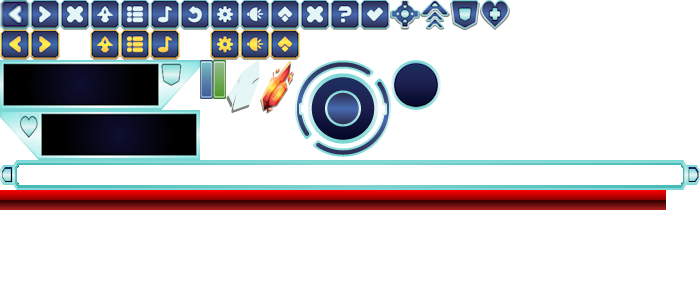
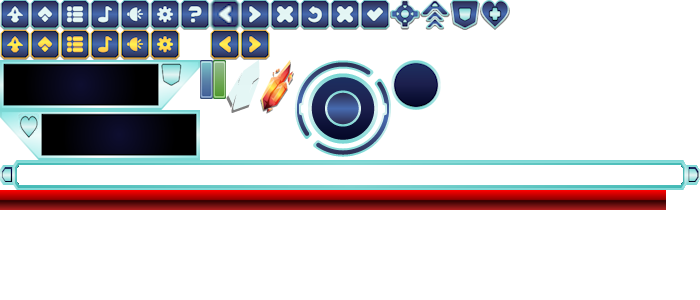
Added buttons and fixed pause key

Changed region(s): [[0.0, 0.0, 0.51, 0.21]]

diff --git a/src/ControlPanel.java b/src/ControlPanel.java
@@ -7,22 +7,31 @@
 import java.awt.Dimension;
 import java.awt.Graphics;
 import java.awt.Point;
+import java.awt.event.ItemEvent;
+import java.awt.event.ItemListener;
 import java.awt.event.KeyEvent;
 import java.awt.event.KeyListener;
 import java.awt.event.MouseEvent;
 import java.awt.event.MouseListener;
 import java.awt.event.MouseMotionListener;
 import java.awt.image.BufferedImage;
+import java.awt.Image;
 import java.io.IOException;
 
+import javax.swing.Icon;
+import javax.swing.ImageIcon;
 import javax.swing.JPanel;
+import javax.swing.JToggleButton;
 
 public class ControlPanel extends JPanel{
 
     private final int WIDTH = 800;
     private final int HEIGHT = 200;
 
+    private GamePanel gPanel;
+    private Boolean isPaused;
     private InputListener listener;
+    private JToggleButton[] menuButtons;
     private BufferedImage console;
     private BufferedImage UI_SS;
     private SpriteSheet UI;
@@ -35,19 +44,32 @@ public class ControlPanel extends JPanel{
     private BufferedImage shieldBar;
     private BufferedImage healthDot;
     private BufferedImage shieldDot;
+    private ImageIcon[] icons;
 
-    public ControlPanel(InputHolder input) {
+
+    public ControlPanel(InputHolder input, GamePanel gp) {
         //Initialize
-        listener = new InputListener(input);
+        this.gPanel = gp;
+        this.listener = new InputListener(input);
+        this.icons = new ImageIcon[13];
+        this.isPaused = false;
 
         //Panel settings
         this.setPreferredSize(new Dimension(WIDTH, HEIGHT));
+        this.setLayout(null);
         this.addKeyListener(listener);
         this.addMouseListener(listener);
         this.addMouseMotionListener(listener);
         this.setFocusable(true);
         this.requestFocus();
 
+        //UI
+        menuButtons = new JToggleButton[6];
+        for(int i = 0; i < menuButtons.length; i++) {
+            menuButtons[i] = new JToggleButton();
+            menuButtons[i].setBounds(575+(35*i), 128, 30, 30);
+            menuButtons[i].addItemListener(listener);
+        }
     }
 
     public void init() {
@@ -78,6 +100,32 @@ public class ControlPanel extends JPanel{
         UI.setPointer(13, 39, 200, 60);
         healthDot = UI.getSprite(2, 1);
         shieldDot = UI.getSprite(1, 1);
+
+        //Load icons
+        UI.setPointer(30, 30, 0, 0);
+        for(int i = 0; i < icons.length; i++) {
+            if (i <= 6) {
+                icons[i] = new ImageIcon((Image)UI.getSprite(i+1, 1));
+            }
+            else {
+                icons[i] = new ImageIcon((Image)UI.getSprite(i-6, 2));
+            }
+        }
+
+        //Set icons to buttons and display
+        for(int j = 0; j < menuButtons.length; j++) {
+            //The last button doesn't have a 'selected' icon
+            if(j == menuButtons.length - 1) {
+                menuButtons[j].setIcon(icons[j+1]);
+                this.add(menuButtons[j]);
+                break;
+            }
+
+            //Set icons and 'selected' icons for the first 5 buttons
+            menuButtons[j].setIcon(icons[j]);
+            this.add(menuButtons[j]);
+            menuButtons[j].setSelectedIcon(icons[j+7]);
+        }
     }
 
     public void tick() {
@@ -104,7 +152,7 @@ public class ControlPanel extends JPanel{
     }
     
 
-    private class InputListener implements KeyListener, MouseListener, MouseMotionListener {
+    private class InputListener implements KeyListener, MouseListener, MouseMotionListener, ItemListener {
 
         private InputHolder input;
         private Point clickPosition;
@@ -135,7 +183,14 @@ public class ControlPanel extends JPanel{
                 case KeyEvent.VK_BACK_SPACE:
                 case KeyEvent.VK_ESCAPE:
                 case KeyEvent.VK_E:
-                    input.setInput('e');
+                    if (isPaused) {
+                        isPaused = false;
+                        gPanel.unpause();
+                    }
+                    else {
+                        isPaused = true;
+                        gPanel.pause();
+                    }
                     break;
             }
         }
@@ -179,6 +234,28 @@ public class ControlPanel extends JPanel{
             input.clear();
         }
 
+        @Override
+        public void itemStateChanged(ItemEvent e) {
+            if (menuButtons[0].isSelected()) {
+                //TODO: ship stats
+            }
+            if (menuButtons[1].isSelected()) {
+                //TODO: upgrade menu
+            }
+            if (menuButtons[2].isSelected()) {
+                //TODO: menu
+            }
+            if (menuButtons[3].isSelected()) {
+                //TODO: music off
+            }
+            if (menuButtons[4].isSelected()) {
+                //TODO: sounds off
+            }
+            if (menuButtons[5].isSelected()) {
+                //TODO: help
+            }
+        }
+
         //Not implemented
         @Override
         public void mouseClicked(MouseEvent e) {}
@@ -194,7 +271,5 @@ public class ControlPanel extends JPanel{
 
         @Override
         public void mouseExited(MouseEvent e) {}
-
-        
     }
 }

diff --git a/src/GamePanel.java b/src/GamePanel.java
@@ -21,7 +21,6 @@ public class GamePanel extends JPanel{
     private final int HEIGHT = 450;
 
     private boolean running = false;
-    private ControlPanel cPanel;
     private Timer timer;
     private InputHolder input;
 
@@ -32,13 +31,12 @@ public class GamePanel extends JPanel{
 
     private ObjectManager manager;
 
-    public GamePanel(InputHolder input, ControlPanel panel) {
+    public GamePanel(InputHolder input) {
         //Initialize
         this.input = input;
         running = false;
-        this.cPanel = panel;
         timer = new Timer(DELAY, new ClockListener());
-        manager = new ObjectManager(this, cPanel);
+        manager = new ObjectManager(this);
 
         //Panel settings
         this.setPreferredSize(new Dimension(WIDTH, HEIGHT));
@@ -79,7 +77,6 @@ public class GamePanel extends JPanel{
 
     public void tick() {
         manager.tick();
-        cPanel.tick();
 
         repaint();
     }
@@ -98,7 +95,7 @@ public class GamePanel extends JPanel{
     }
 
     public void unpause() {
-        
+        timer.start();
     }
 
     public ObjectManager getObjectManager() {

diff --git a/src/ObjectManager.java b/src/ObjectManager.java
@@ -16,7 +16,6 @@ public class ObjectManager {
     private ArrayList<Mover> delHostile;
     private ArrayList<Mover> delFriendly;
     private GamePanel gp;
-    private ControlPanel cp;
     private Random rand;
 
     private SpriteSheet smallRockSS;
@@ -29,7 +28,7 @@ public class ObjectManager {
 
     private int tickCounter, spawnRate;
 
-    public ObjectManager(GamePanel gp, ControlPanel cp) {
+    public ObjectManager(GamePanel gp) {
         friendly = new ArrayList<Mover>();
         hostile = new ArrayList<Mover>();
         delHostile = new ArrayList<Mover>();
@@ -39,7 +38,6 @@ public class ObjectManager {
         spawnRate = 20;
 
         this.gp = gp;
-        this.cp = cp;
     }
 
     public void init() {
@@ -83,7 +81,7 @@ public class ObjectManager {
         tickCounter++;
 
         if(tickCounter >= spawnRate) {
-            spawnRock(1, 0);
+            spawnRock(4, 0);
             tickCounter = 0;
         }
 

diff --git a/src/GameFrame.java b/src/GameFrame.java
@@ -20,8 +20,8 @@ public class GameFrame extends JFrame{
 
         //Initialize
         input = new InputHolder();
-        cPanel = new ControlPanel(input);
-        gPanel = new GamePanel(input, cPanel);
+        gPanel = new GamePanel(input);
+        cPanel = new ControlPanel(input, gPanel);
 
         //Layered Pane
         layer = new JLayeredPane();

diff --git a/src/Mover.java b/src/Mover.java
@@ -12,7 +12,8 @@ import java.awt.image.BufferedImage;
 import java.awt.Shape;
 
 abstract class Mover {
-    private final boolean displayHitbox = true;    //Used for debugging
+
+    private final boolean displayHitbox = false;    //Used for debugging
 
     private int speed;              //Pixels/second?
     private int x, y;               //Position

diff --git a/src/Avatar.java b/src/Avatar.java
@@ -31,10 +31,6 @@ public class Avatar extends Ship{
             case 's':
                 setDY(getSpeed());
                 break;
-            case 'e':
-                getGP().pause();
-                //TODO: menu
-                break;
         }
 
         shoot();

diff --git a/src/InputHolder.java b/src/InputHolder.java
@@ -6,7 +6,6 @@
  *      '-' - No input
  *      'w' - Up
  *      's' - Down
- *      'e' - Pause
  *      ' ' - Shoot
  */
 
